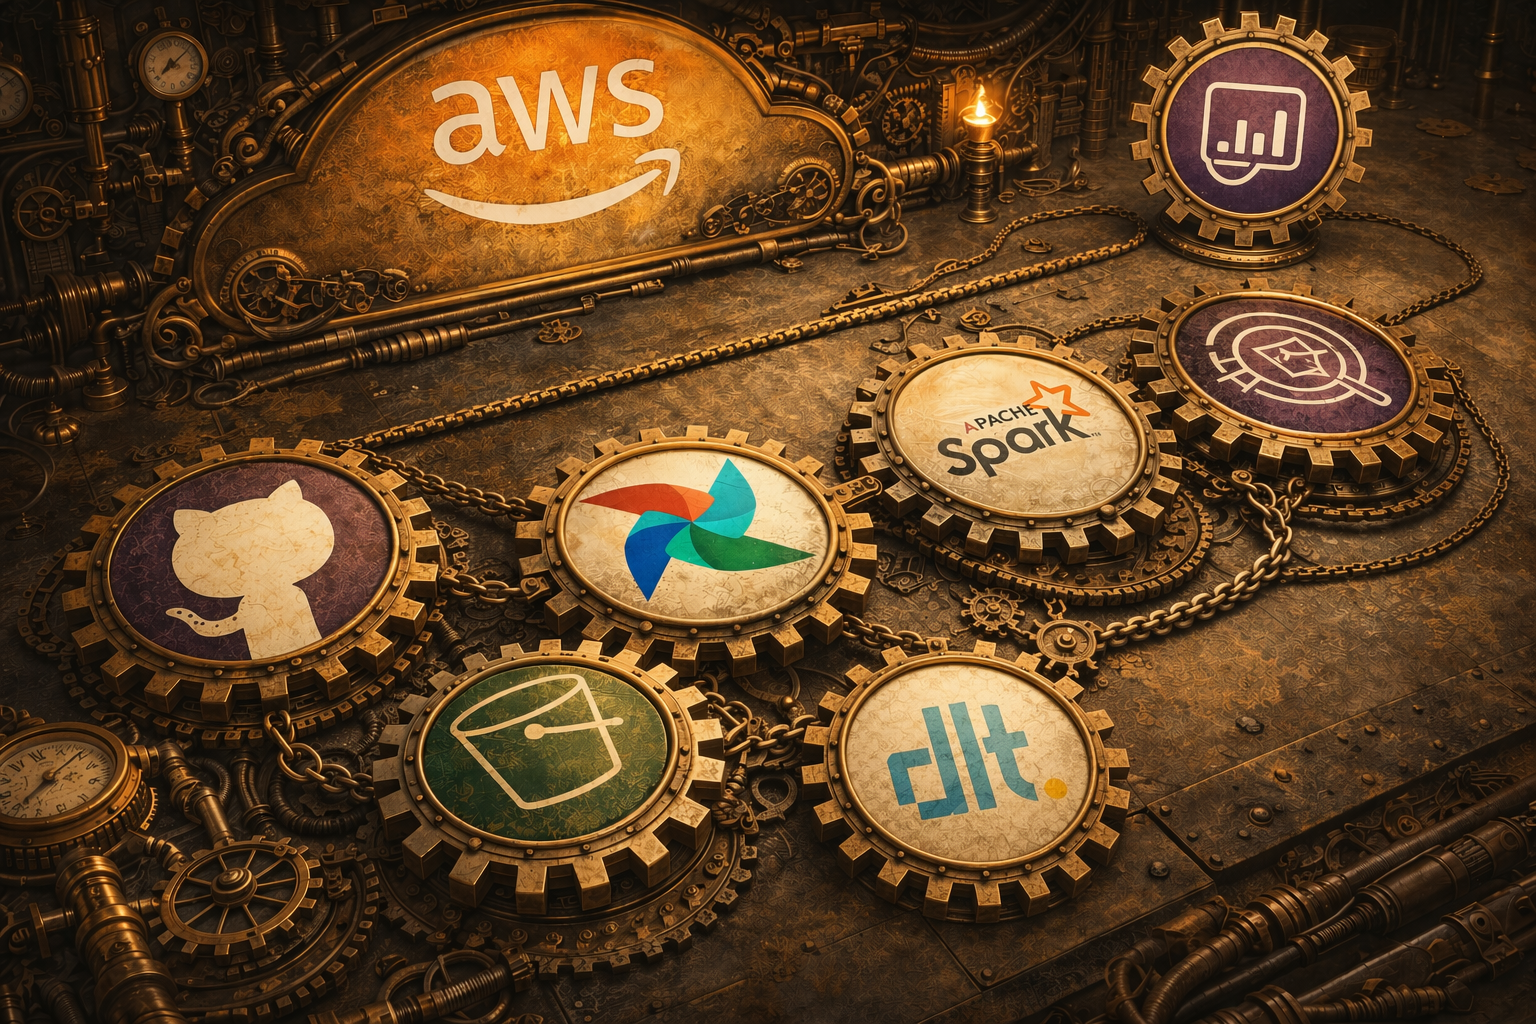
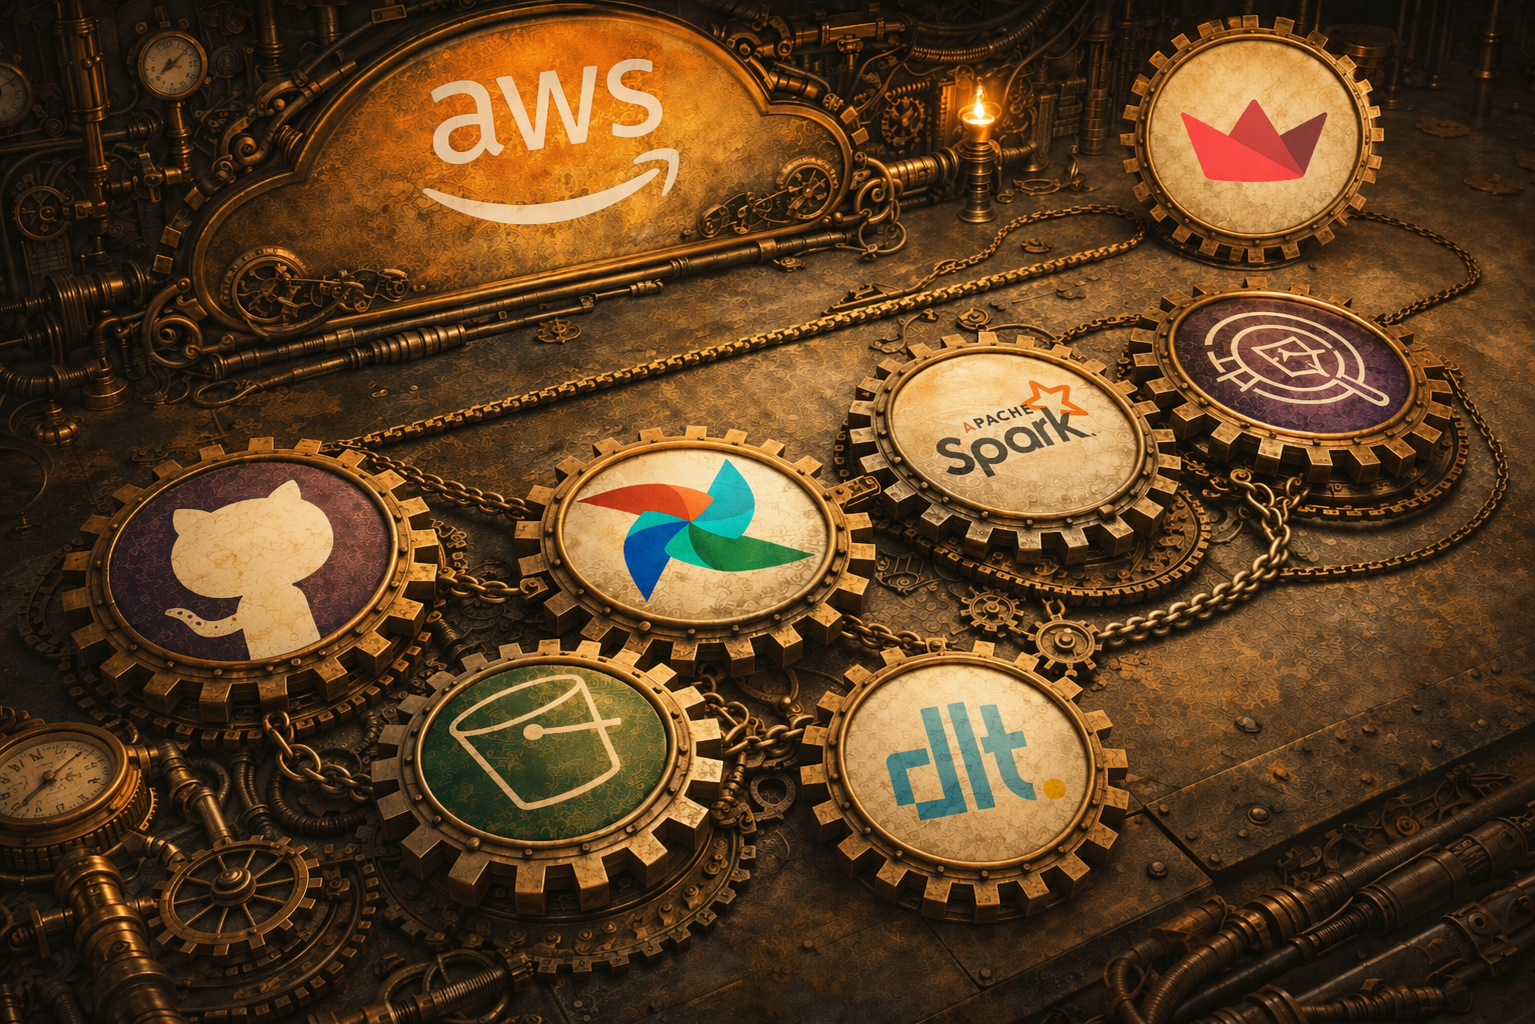
Update Readme file

diff --git a/README.md b/README.md
@@ -14,7 +14,7 @@
 ![Amazon S3](https://img.shields.io/badge/Amazon%20S3-Data%20Lake-569A31?logo=amazons3&logoColor=white)
 ![Amazon Athena](https://img.shields.io/badge/Amazon%20Athena-Warehouse-6F2DA8?logo=amazonaws&logoColor=white)
 ![AWS Glue](https://img.shields.io/badge/AWS%20Glue-Catalog-FF9900?logo=amazonaws&logoColor=white)
-![Amazon QuickSight](https://img.shields.io/badge/Amazon%20QuickSight-Dashboards-00A1C9?logo=amazonaws&logoColor=white)
+![Streamlit](https://img.shields.io/badge/Streamlit-Dashboard-FF4B4B?logo=streamlit&logoColor=white)
 ![Amazon EKS](https://img.shields.io/badge/Amazon%20EKS-Kubernetes-FF9900?logo=amazoneks&logoColor=white)
 ![Helm](https://img.shields.io/badge/Helm-Deployment-0F1689?logo=helm&logoColor=white)
 ![Terraform](https://img.shields.io/badge/Terraform-IaC-844FBA?logo=terraform&logoColor=white)
@@ -31,9 +31,9 @@ Build a production-oriented batch analytics platform for GitHub public activity 
 - identify repositories and organizations worth deeper analysis
 - enrich those candidates with GitHub API metadata
 - publish curated marts and dashboard-ready datasets to a low-ops warehouse
-- expose those datasets to downstream BI consumers through Athena and Amazon QuickSight
+- expose those datasets to downstream BI consumers through Athena and Streamlit
 
-The project is intentionally designed as a lakehouse-style batch pipeline rather than a streaming system. The emphasis is on predictable hourly processing, cheap object storage, reproducible Spark jobs, and queryable Parquet outputs that can power analyst workflows and QuickSight dashboards without maintaining a dedicated warehouse cluster.
+The project is intentionally designed as a lakehouse-style batch pipeline rather than a streaming system. The emphasis is on predictable hourly processing, cheap object storage, reproducible Spark jobs, and queryable Parquet outputs that can power analyst workflows and Streamlit dashboards without maintaining a dedicated warehouse cluster.
 
 ## 🧩 Problem Statement
 
@@ -44,7 +44,7 @@ GH Archive publishes GitHub activity as hourly JSON event files. That raw feed i
 - entity-level business dimensions such as language, owner type, location, company, or verification status are not available directly in the event feed
 - downstream users need stable analytical tables and dashboard datasets, not raw JSON blobs
 
-This project solves that by orchestrating an hourly Airflow DAG that runs Spark jobs over GH Archive data, stores each transformation stage in S3, enriches selected entities through the GitHub API, and publishes Glue Catalog tables that can be queried in Athena and visualized in QuickSight.
+This project solves that by orchestrating an hourly Airflow DAG that runs Spark jobs over GH Archive data, stores each transformation stage in S3, enriches selected entities through the GitHub API, and publishes Glue Catalog tables that can be queried in Athena and visualized in Streamlit.
 
 ## 🔄 Data Pipeline
 
@@ -79,7 +79,7 @@ Pipeline stages:
    - writes curated Parquet marts to the marts bucket
 7. dashboard builders
    - materialize dashboard-specific datasets for repositories, organizations, and common cross-cutting views
-   - these outputs are exposed through Athena tables and intended for QuickSight consumption
+   - these outputs are exposed through Athena tables and intended for Streamlit consumption
 
 S3 zones:
 
@@ -299,8 +299,8 @@ Athena is the warehouse query layer for this project because it matches the stor
 - the pipeline already writes Parquet datasets to S3
 - Glue Catalog provides the metadata layer without extra warehouse infrastructure
 - analysts can query the same S3-backed datasets that power the batch pipeline
-- QuickSight can sit on top of Athena to build dashboards without introducing another serving database
-- the operational model stays simple: Spark writes Parquet, Glue defines metadata, Athena queries it, QuickSight visualizes it
+- Streamlit can sit on top of Athena to build dashboards without introducing another serving database
+- the operational model stays simple: Spark writes Parquet, Glue defines metadata, Athena queries it, Streamlit visualizes it
 
 Warehouse metadata is defined in [`infra/terraform/modules/catalog/main.tf`](./infra/terraform/modules/catalog/main.tf).
 
@@ -319,7 +319,7 @@ Current warehouse design:
   - Spark writes Parquet to S3
   - Glue Catalog exposes the datasets to Athena
   - Athena provides the SQL layer
-  - QuickSight can use Athena datasets as the dashboard source
+  - Streamlit can use Athena datasets as the dashboard source
 
 Partitioning strategy:
 
@@ -341,7 +341,7 @@ Clustering and file layout:
   - Parquet column pruning
   - smaller dashboard-specific datasets written for downstream reporting
 
-This is a deliberate tradeoff. For hourly batch analytics, partitioned Parquet on S3 plus Athena is simpler and cheaper than operating a dedicated warehouse, and it is a natural fit for QuickSight dashboards built over time-partitioned analytical tables.
+This is a deliberate tradeoff. For hourly batch analytics, partitioned Parquet on S3 plus Athena is simpler and cheaper than operating a dedicated warehouse, and it is a natural fit for Streamlit dashboards built over time-partitioned analytical tables.
 
 ## 🛠 Local Setup
 
